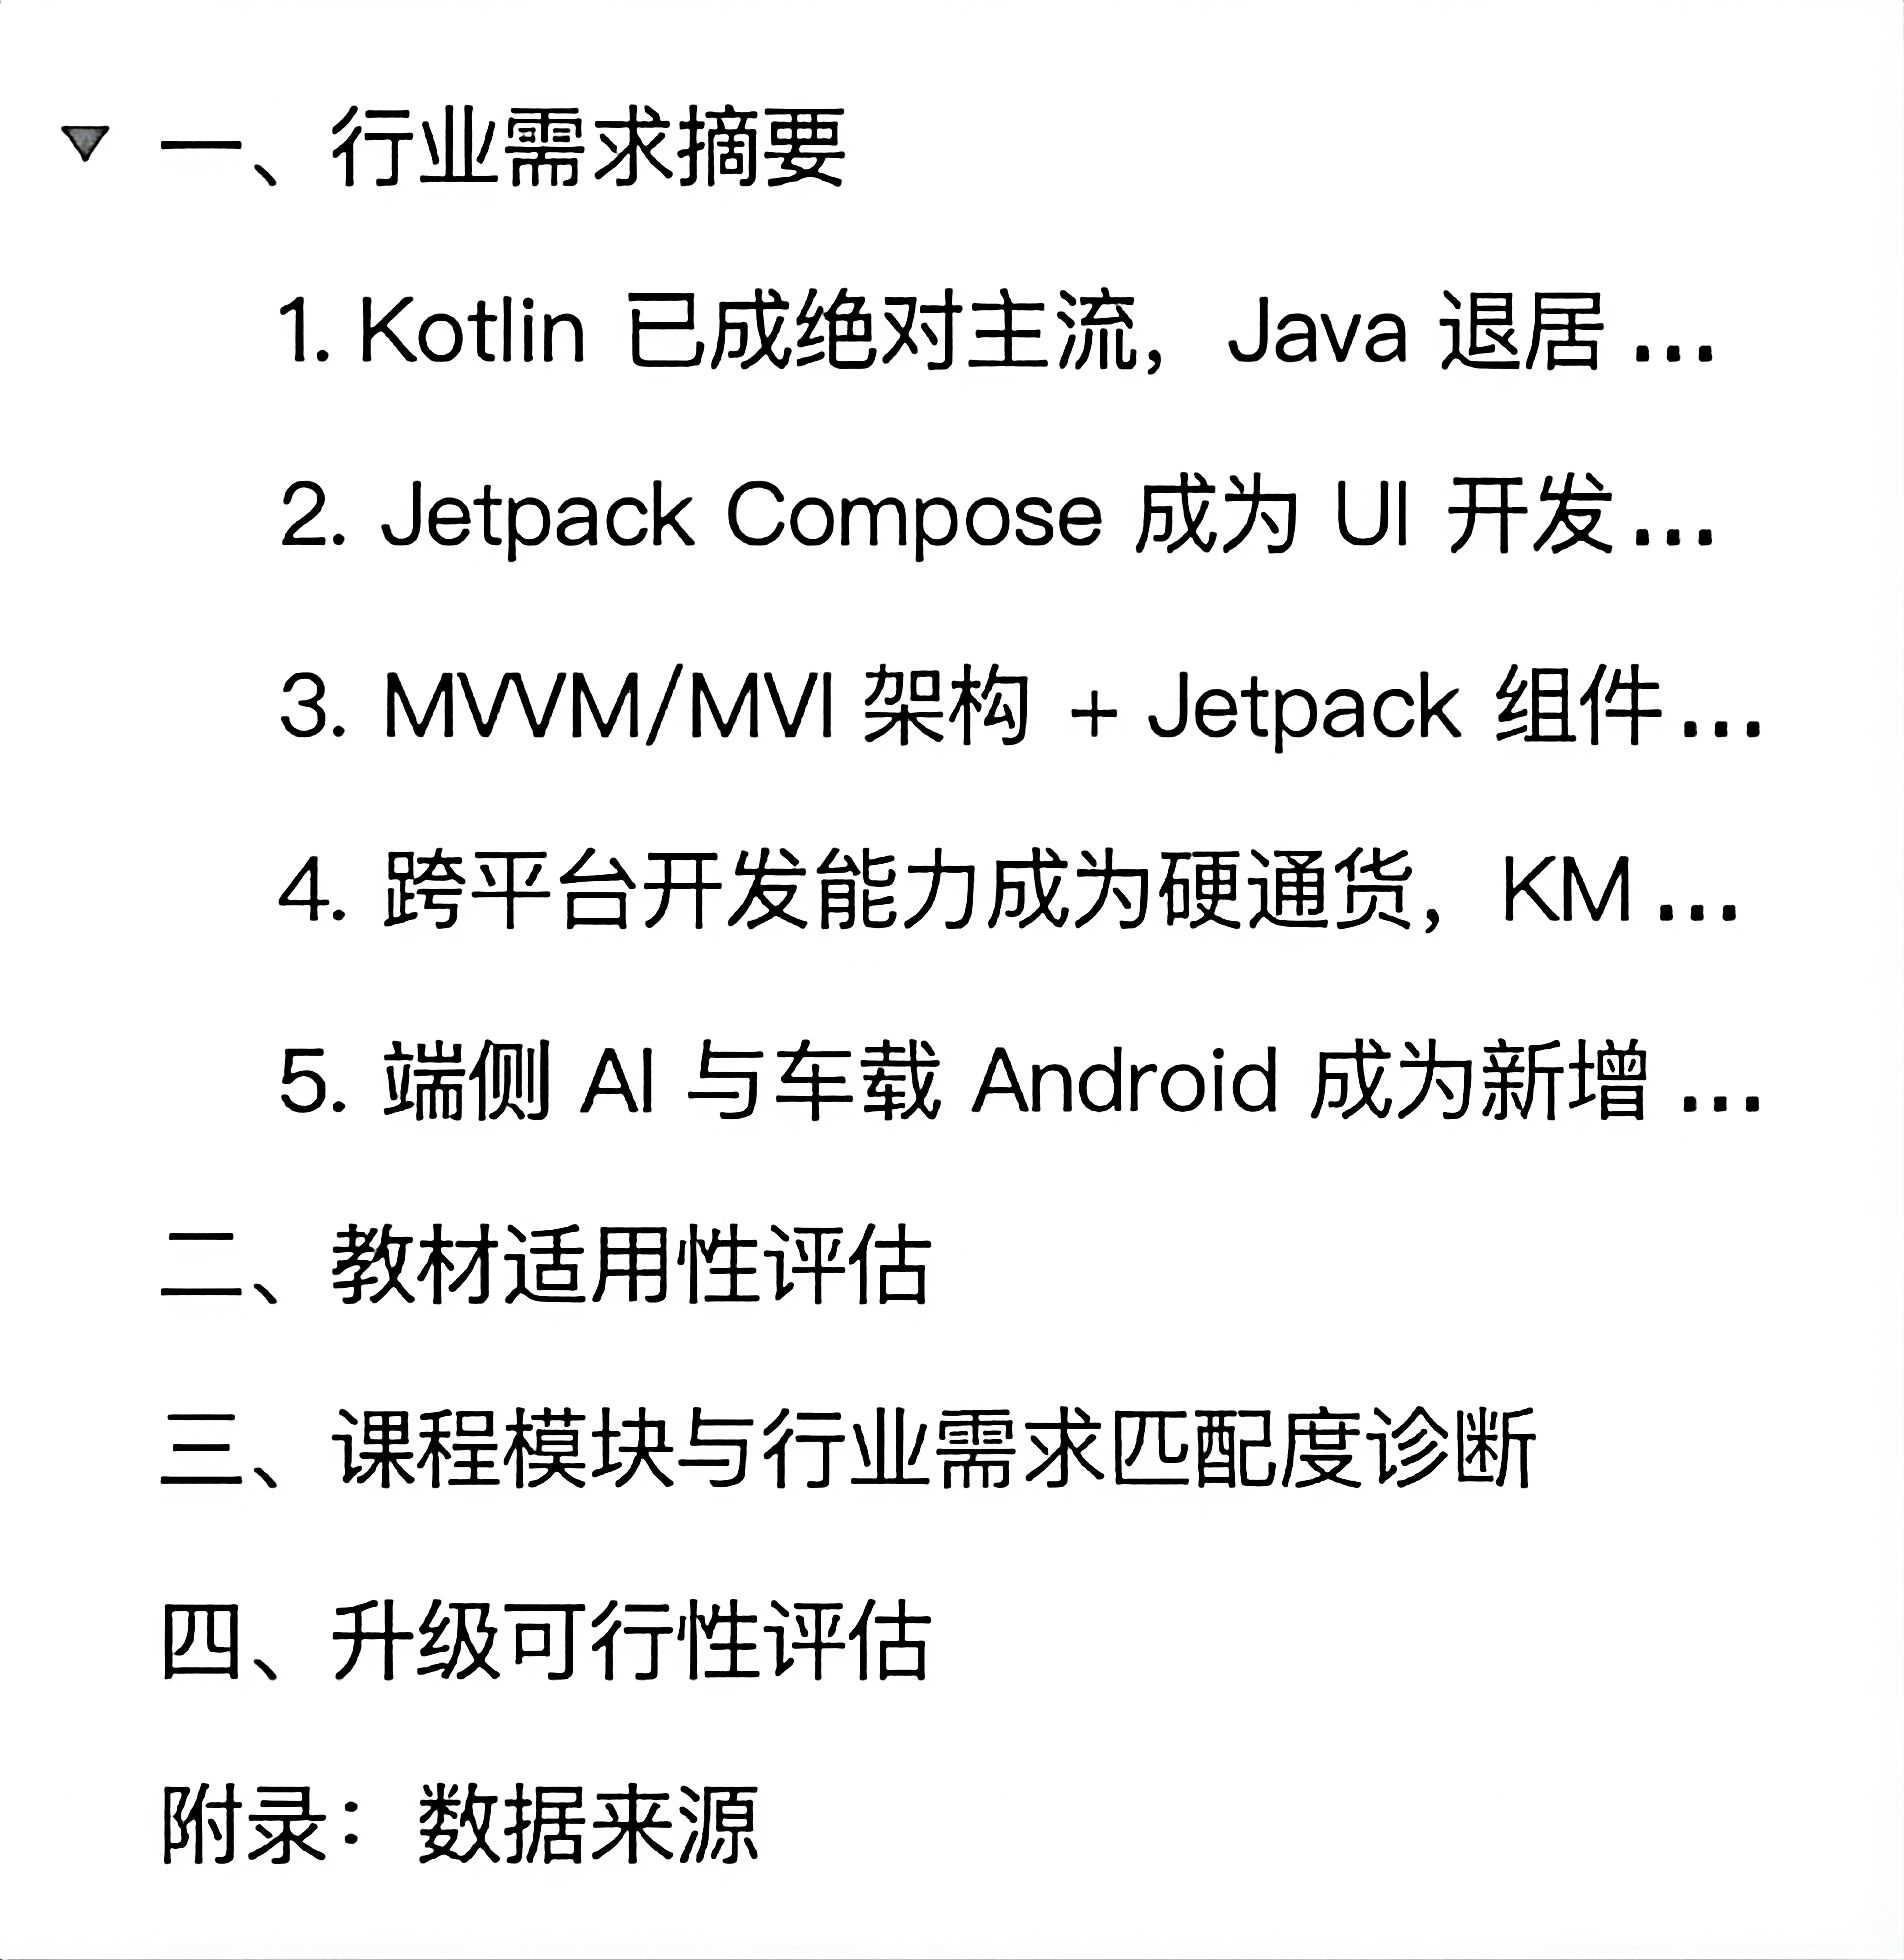
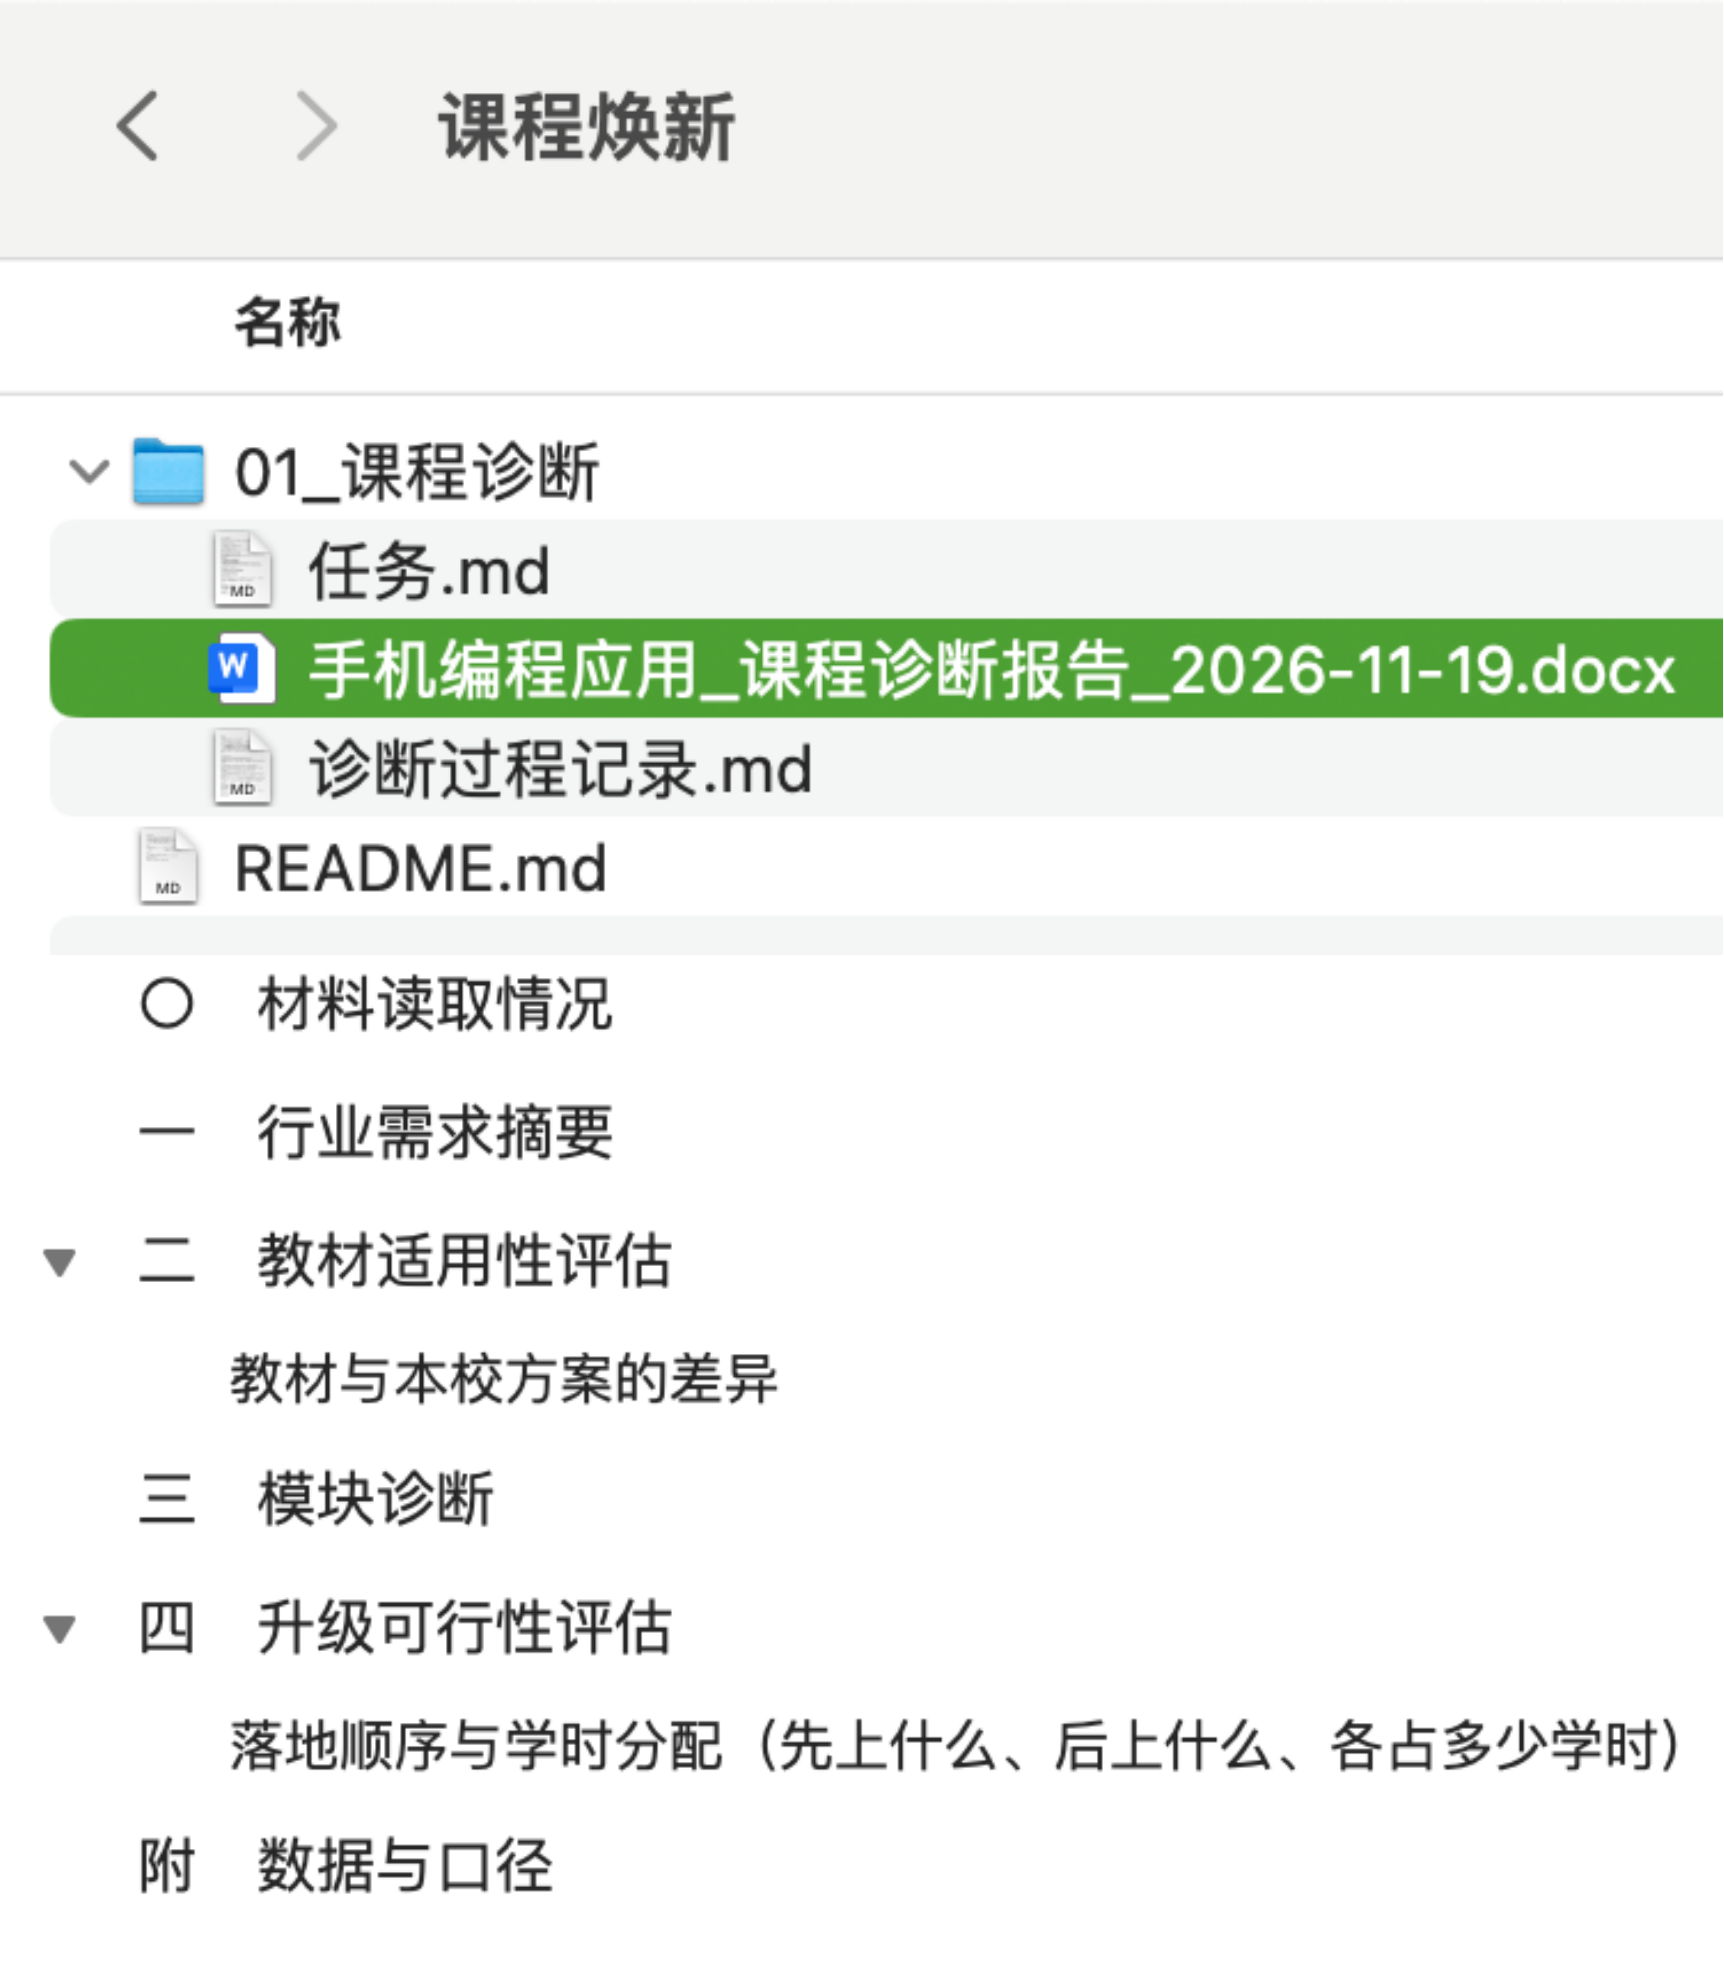
5.2交付检查：课程焕新/01_课程诊断 路径加绿色高亮

diff --git a/index.html b/index.html
@@ -3832,7 +3832,7 @@
   <div class="check-list">
     <div class="title">✅ 交付检查:报告存成文件了吗?</div>
     <ul>
-      <li>打开你的<strong>分组文件夹</strong>(课上建的那个),里面有个 <strong>课程焕新 › 01_课程诊断</strong>--报告就在里头,<strong>不是只在对话里</strong>(只出现在聊天里的,关掉窗口就没了)</li>
+      <li>打开你的<strong>分组文件夹</strong>(课上建的那个),里面有个 <strong style="color:var(--accent-green);">课程焕新 › 01_课程诊断</strong>--报告就在里头,<strong>不是只在对话里</strong>(只出现在聊天里的,关掉窗口就没了)</li>
       <li>打开瞄一眼导航窗格,<strong>四部分都在</strong>--齐不齐、够不够归 5.3 逐条查,这里只确认有没有</li>
       <li>文件名看得出<strong>是哪门课、哪一天</strong>--四步下来十几个文件,回头分不清哪个是哪个</li>
     </ul>
